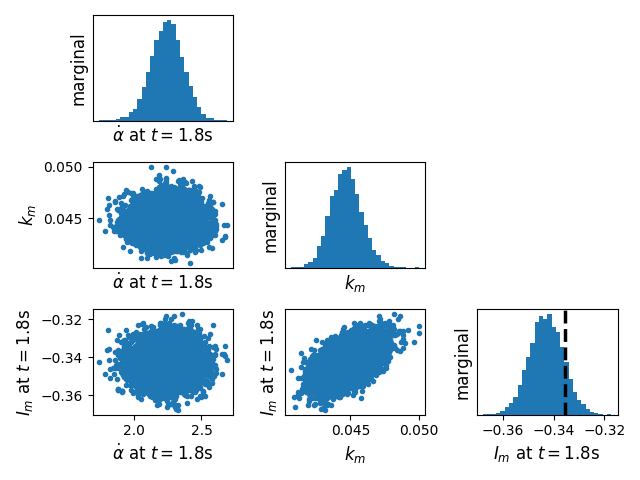
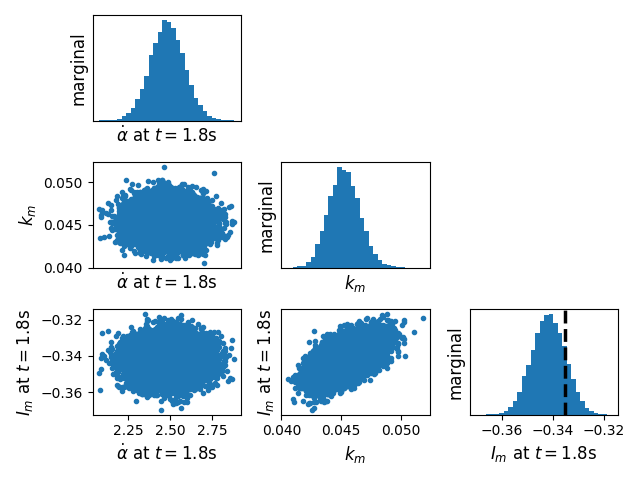
set up to run pendulum estimation with no priors

diff --git a/example7_pendulum.py b/example7_pendulum.py
@@ -59,7 +59,8 @@ z_init[2,-1] = z_init[2,-2]
 z_init[3,:-1] = (y[1,1:]-y[1,0:-1])/Ts
 z_init[3,-1] = z_init[3,-2]
 
-model = pystan.StanModel(file='stan/pendulum_coupled.stan')
+# model = pystan.StanModel(file='stan/pendulum_coupled.stan')
+model = pystan.StanModel(file='stan/pendulum_coupled_noprior.stan')
 
 stan_data = {'no_obs': no_obs,
              'Ts':Ts[0,0],

diff --git a/example7_plot.py b/example7_plot.py
@@ -52,6 +52,8 @@ z_init[3,-1] = z_init[3,-2]
 with open('results/pendulum_set1_results_coupled_euler.pickle','rb') as file:
     traces = pickle.load(file)
 
+# savemat('results/pendulum_traces_rk4.mat',traces)
+
 theta = traces['theta']
 z = traces['h']
 yhat = traces['yhat']
